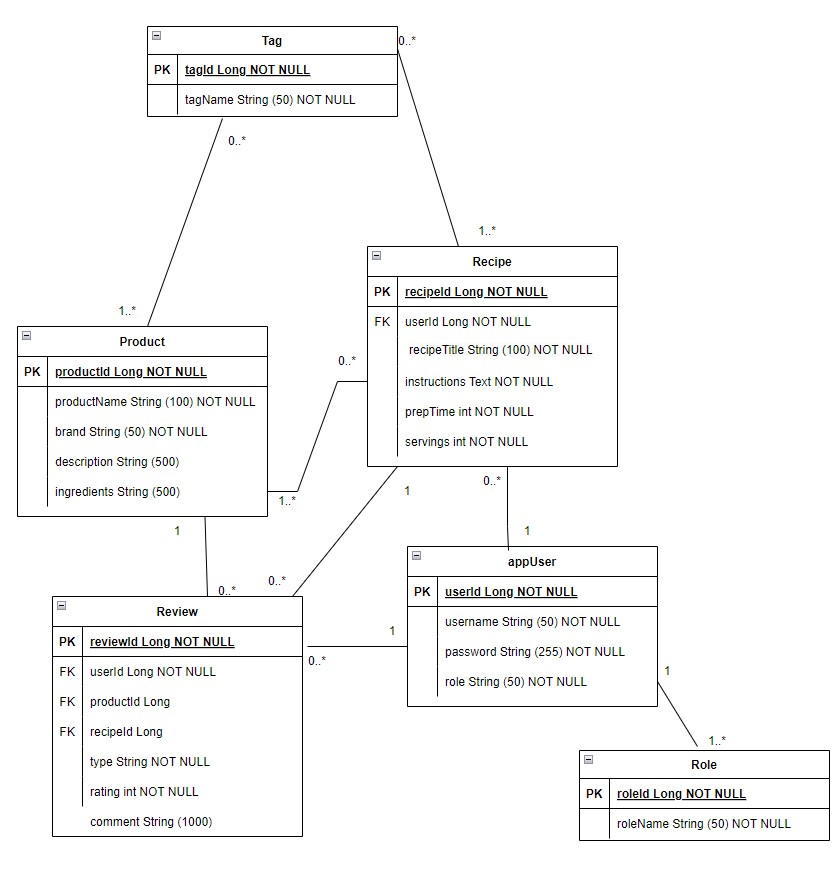
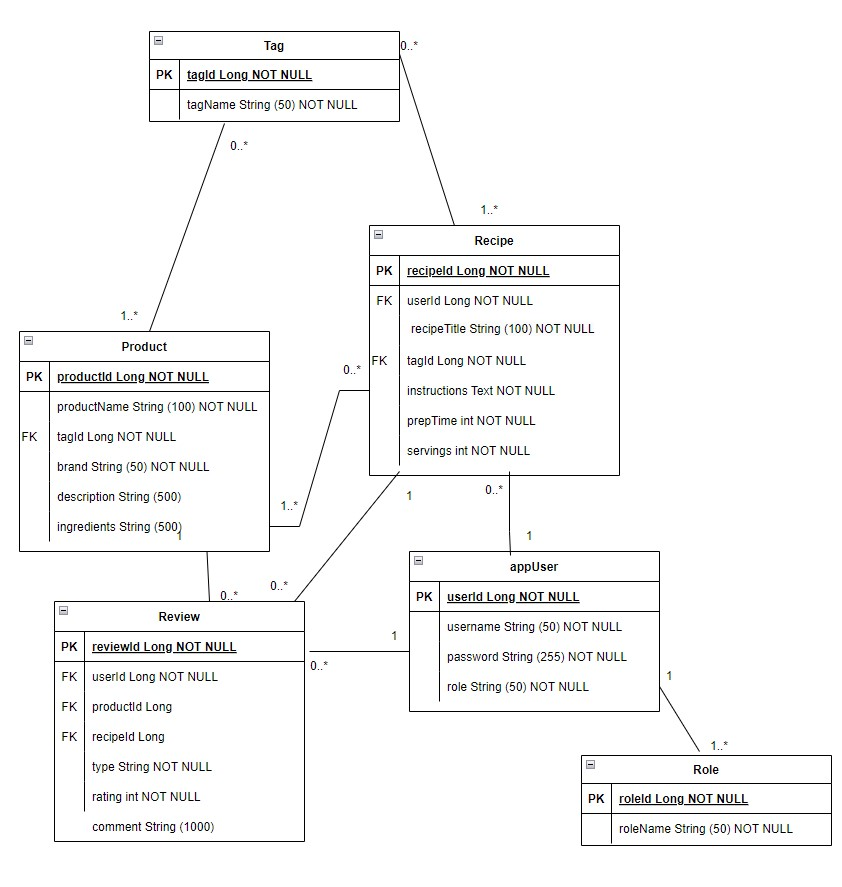
Päivitetty luokkakaaviota

diff --git a/README.md b/README.md
@@ -4,3 +4,34 @@
 Vegit on kasvisruokatuotteisiin ja resepteihin keskittyvä sovellus, jossa käyttäjät voivat jakaa kokemuksiaan ja löytää inspiraatiota terveelliseen ja ekologiseen ruokailuun. Sovelluksen avulla voi tutustua laajaan vegaanisiin tuotteisiin, lukea muiden käyttäjien arvosteluja ja lisätä omia tuotteisiin liittyviä kokemuksia.
 
 Vegit tarjoaa myös mahdollisuuden lisätä reseptejä, joissa hyödynnetään kasvipohjaisia tuotteita sekä ja antaa niistä palautetta. Reseptit auttavat käyttäjiä kokeilemaan uusia raaka-aineita sekä löytämään luovia ja herkullisia tapoja nauttia kasvisruuasta. 
+
+## Luokkakaavio
+Tämä luokkakaavio havainnollistaa sovelluksen rakennetta.
+
+![Luokkakaavio](Vegit_luokkakaavio.jpg)
+
+## Tietohakemisto
+
+> ### _user_
+> _user-taulu sisältää käyttäjätilin tiedot. Tili kuuluu aina vain yhdelle käyttäjälle._
+
+> Kenttä | Tyyppi | Kuvaus
+> ------ | ------ | ------
+> user_id | Long PK | Käyttäjän yksilöivä tunniste
+> role_id | Long FK | Roolin tunniste (viittaus role-tauluun)
+> username | String (50) |  Käyttäjän käyttäjätunnus
+> password | String (255) | Käyttäjän salasana
+
+> ### _product_
+> _product-taulu sisältää tuotteen tiedot. _
+
+> Kenttä | Tyyppi | Kuvaus
+> ------ | ------ | ------
+> productId | Long PK | Tuotteen yksilöivä tunniste
+> productName | String (100) | Tuotteen nimi, esimerkiksi "Soijasuikaleet" tai "Nyhtökaura"
+> brand | String (50) | Tuotemerkki, esimerkiksi "Vegesun" tai "Gold & Green"
+> description | String (50) |  Tuotteen tarkempi kuvaus
+> ingredients | String (500) | Ainesosat
+
+
+
